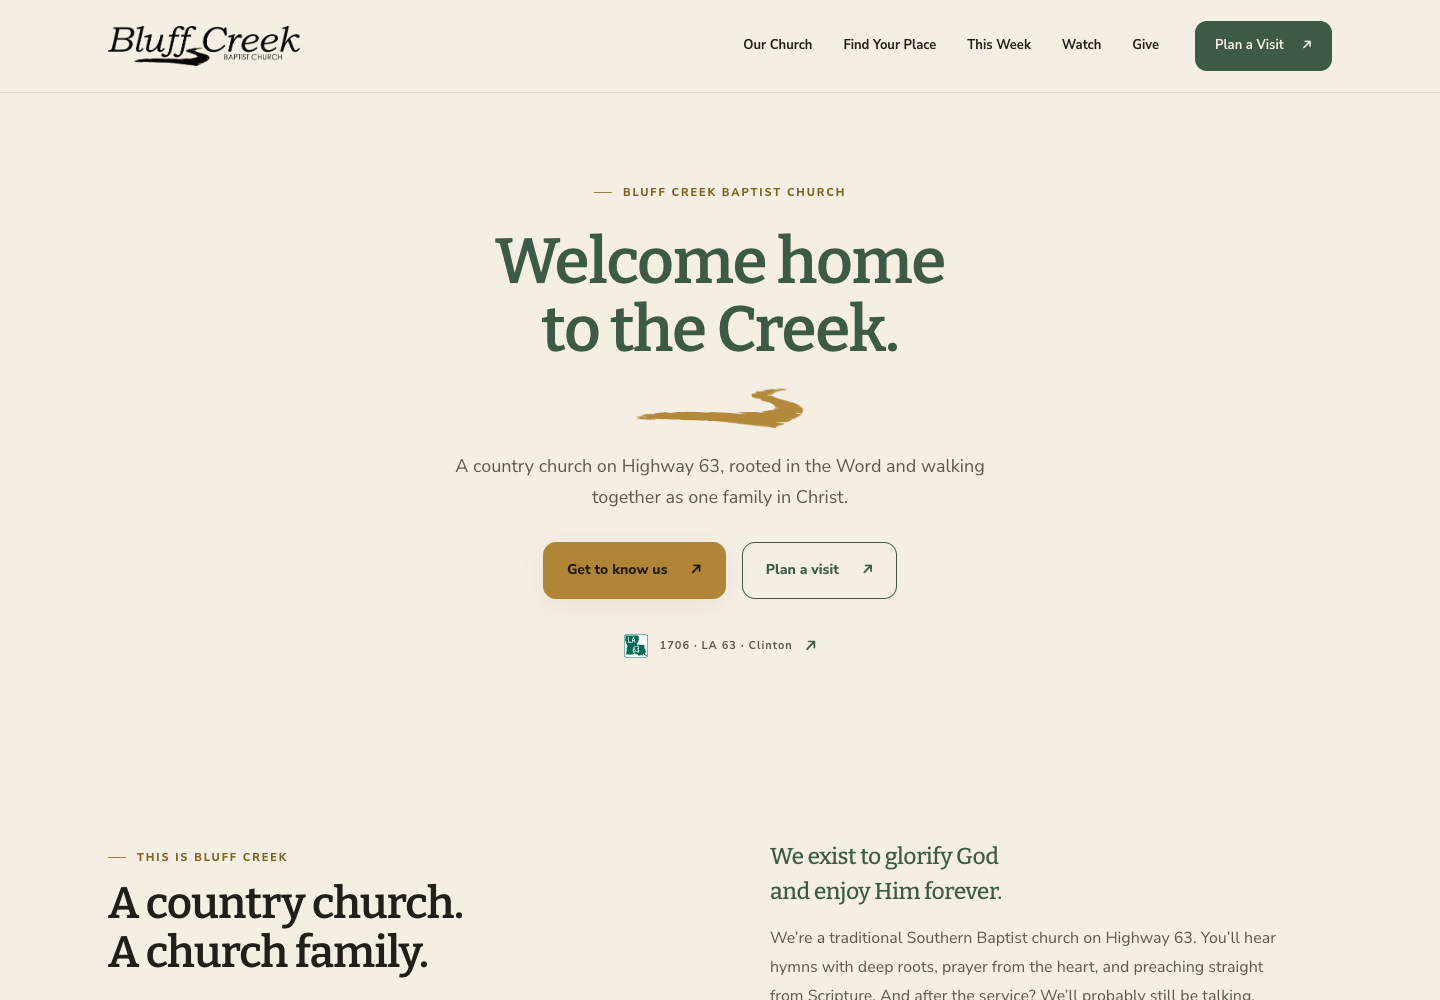
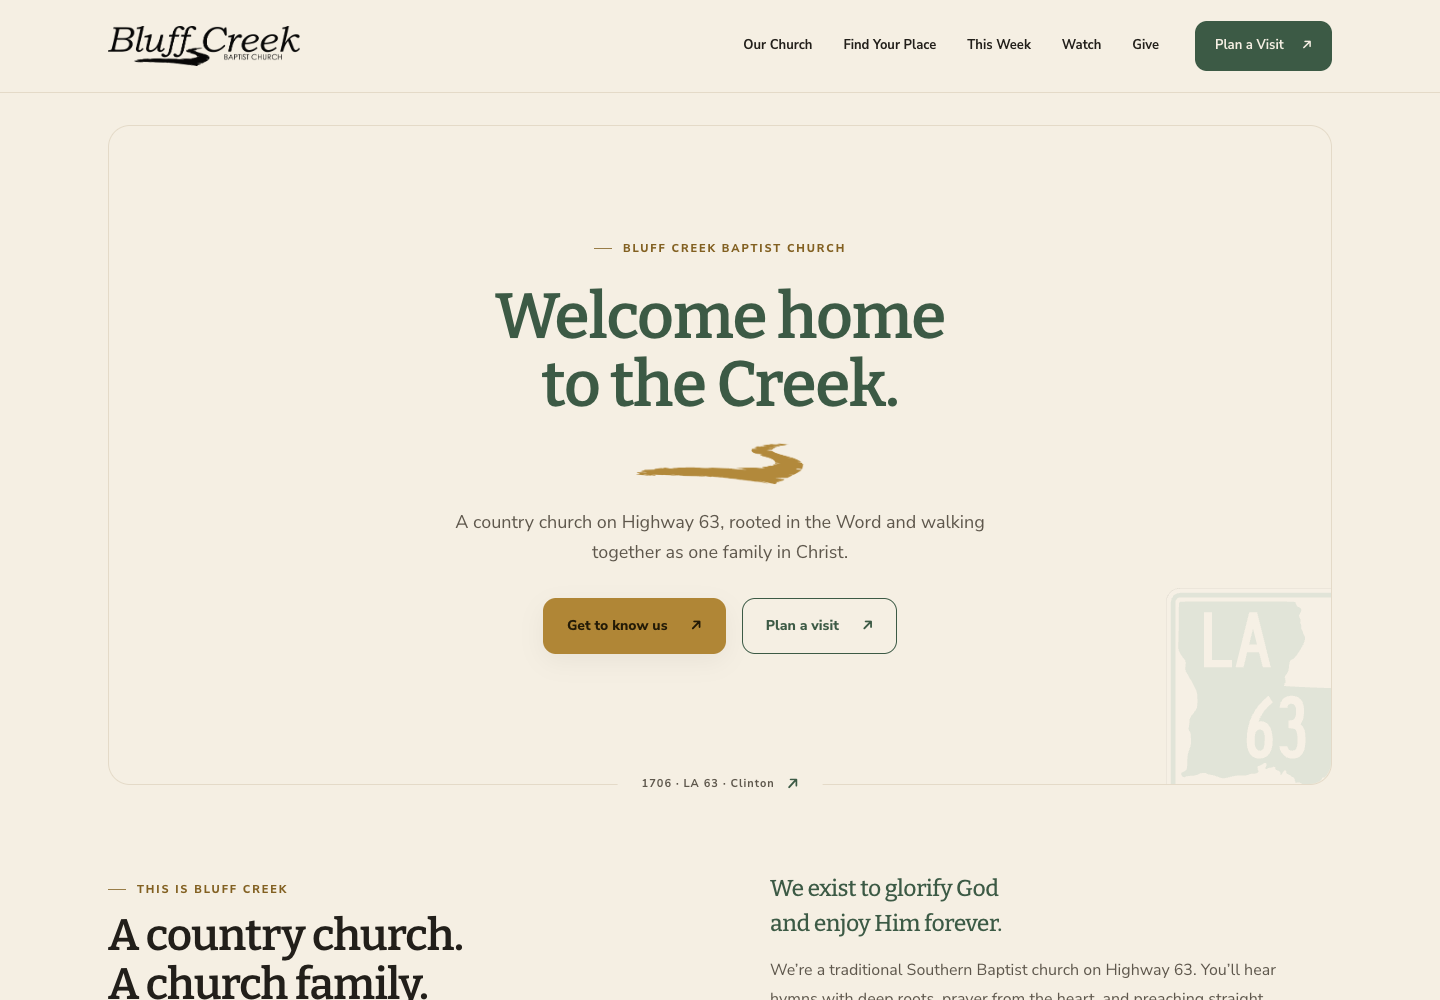
Integrate Highway 63 into the Homestead composition

diff --git a/css/polish.css b/css/polish.css
@@ -314,16 +314,17 @@ footer a:focus-visible,.top a:focus-visible{outline-color:#e5c76f}
 .editorial .burger span{font-family:"Nunito Sans",sans-serif;font-weight:800;font-size:13px}
 
 /* The opening introduces the church before practical visit details. */
-.homestead-welcome{position:relative;isolation:isolate;overflow:hidden;display:flex;flex-direction:column;align-items:center;justify-content:center;min-height:660px;padding:72px 28px 66px;text-align:center}
+.homestead-welcome{position:relative;isolation:isolate;display:flex;flex-direction:column;align-items:center;justify-content:center;min-height:660px;margin:32px 0 0;padding:64px 44px 80px;text-align:center;border:1px solid var(--line);border-radius:22px}
+/* The official marker belongs to the frame, clear of the welcome copy. */
+.welcome-place{position:absolute;inset:0;z-index:-1;overflow:hidden;border-radius:inherit;pointer-events:none}
+.welcome-place img{position:absolute;right:-55px;bottom:-24px;width:220px;height:auto;opacity:.08;filter:none}
 .homestead-welcome .eye{margin:0 0 26px}
 .homestead-welcome h1{color:var(--pine);font-family:"Bitter",Georgia,serif;font-size:clamp(44px,4.8vw,64px);font-weight:600;line-height:1.06;letter-spacing:-.02em;margin:0}
 .homestead-welcome .welcome-creek{width:170px;height:auto;margin:23px 0 22px}
 .homestead-welcome .welcome-intro{max-width:51ch;font-size:18px;line-height:1.7;color:var(--ink2);margin:0}
 .homestead-welcome .actions{justify-content:center;gap:16px;margin-top:30px}
-/* The unchanged state marker is a small, useful local signature. */
-.route-marker{display:block;flex:0 0 auto;height:auto;filter:none}
-.homestead-welcome .welcome-location{display:inline-flex;align-items:center;gap:12px;min-height:44px;font-size:11px;font-weight:700;letter-spacing:.09em;color:var(--ink2);margin:25px 0 0;text-decoration:none;border-radius:6px}
-.welcome-location .route-marker{width:24px}
+/* Place names interrupt the same fine rule throughout the page. */
+.homestead-welcome .welcome-location{position:absolute;left:50%;bottom:0;transform:translate(-50%,50%);display:inline-flex;align-items:center;gap:12px;min-height:44px;padding:0 24px;background:var(--ivory);font-size:11px;font-weight:700;letter-spacing:.09em;white-space:nowrap;color:var(--ink2);text-decoration:none;border-radius:6px}
 .welcome-location .location-arrow{color:var(--pine);font-size:15px;letter-spacing:0}
 .welcome-location:hover>span:not(.location-arrow){text-decoration:underline;text-underline-offset:4px}
 .editorial .homestead-welcome .btn{box-shadow:0 8px 24px rgba(40,33,20,.06)}
@@ -335,7 +336,8 @@ footer a:focus-visible,.top a:focus-visible{outline-color:#e5c76f}
 .visit-times{margin-top:56px}
 .visit-times h2{font-size:30px}
 @media(max-width:760px){
-  .homestead-welcome{min-height:610px;padding:48px 0}
+  .homestead-welcome{min-height:610px;margin:24px -12px 0;padding:48px 12px 68px}
+  .homestead-welcome .welcome-location{padding:0 14px;font-size:10px;gap:10px}
   .homestead-welcome .eye{font-size:10px;letter-spacing:.12em}
   .homestead-welcome h1{font-size:44px;line-height:1.07}
   .homestead-welcome .welcome-creek{width:140px;margin:22px 0}
@@ -344,6 +346,7 @@ footer a:focus-visible,.top a:focus-visible{outline-color:#e5c76f}
   .editorial .homestead-welcome .btn{padding:15px 18px;gap:16px;min-height:48px;font-size:13px}
   .editorial .first-visit .sunday-strip{padding:22px;margin-bottom:34px}
 }
+@media(max-width:1040px){.welcome-place{display:none}}
 @media(max-width:380px){.homestead-welcome h1{font-size:38px}.homestead-welcome .actions{flex-direction:column;align-items:stretch}.homestead-welcome .btn{justify-content:center}}
 .sunday-strip{display:grid;grid-template-columns:1.15fr .8fr .9fr 1.15fr;gap:26px;border-top:1px solid var(--line);border-bottom:1px solid var(--line);padding:25px 0 26px;align-items:center}
 .sunday-strip>div+div,.sunday-location{border-left:1px solid var(--line);padding-left:26px}
@@ -378,11 +381,12 @@ footer a:focus-visible,.top a:focus-visible{outline-color:#e5c76f}
 .tile-link{margin-top:auto;padding-top:18px;border-top:1px solid var(--line);align-self:stretch;display:flex;justify-content:space-between;gap:12px;font-size:12px;font-weight:800;color:var(--pine)}
 .week-grid{display:grid;grid-template-columns:.85fr 1.4fr;gap:90px;align-items:start}
 .week-intro>p:not(.eye){color:var(--ink2);font-size:16px;margin:19px 0 15px}
-.wednesday-note{display:flex;align-items:center;gap:13px;margin-top:34px}
-.wednesday-note .route-marker{width:20px}
-.wednesday-note>div{display:flex;flex-direction:column;gap:5px}
+.wednesday-note{margin-top:34px;max-width:350px}
+.place-rule{display:flex;align-items:center;gap:16px}
+.place-rule::before,.place-rule::after{content:"";height:1px;background:var(--line);flex:1}
+.place-rule::before{flex:0 0 28px}
 .wednesday-note b{font-family:"Bitter",serif;font-size:18px;letter-spacing:-.03em}
-.wednesday-note span{font-size:12px;color:var(--ink2)}
+.wednesday-note>span{display:block;margin:9px 0 0 44px;font-size:12px;color:var(--ink2)}
 .editorial .event-feed{margin:0}
 .editorial .event-row{grid-template-columns:78px 1fr;padding:26px 2px;gap:23px;transition:background .2s}
 .editorial .event-row:hover{padding-left:2px;background:none}
@@ -415,10 +419,11 @@ footer a:focus-visible,.top a:focus-visible{outline-color:#e5c76f}
 .wayfinding picture{display:block;position:relative;background:var(--pine)}
 .wayfinding picture::after{content:"";position:absolute;inset:0;background:rgba(60,90,69,.24);pointer-events:none}
 .wayfinding .wayfinding-photo{width:100%;height:auto;aspect-ratio:16/10;object-fit:cover;object-position:left center;filter:grayscale(.42) saturate(.68) brightness(.86);box-shadow:none;border-radius:0}
-.route-byline{display:inline-flex;align-items:center;gap:10px}
-.route-byline .route-marker{width:20px}
-.wayfinding figcaption{display:flex;justify-content:space-between;align-items:center;gap:16px;border-bottom:1px solid var(--line);padding:17px 0;font-size:10px;letter-spacing:.07em;text-transform:uppercase;font-weight:800;color:var(--ink2)}
-.wayfinding figcaption a{font-size:11px;text-transform:none;letter-spacing:0;text-underline-offset:4px}
+.wayfinding figcaption{display:flex;justify-content:space-between;align-items:center;gap:16px;position:relative;margin-top:24px;font-size:10px;letter-spacing:.07em;text-transform:uppercase;font-weight:800;color:var(--ink2)}
+.wayfinding figcaption::before{content:"";position:absolute;top:50%;left:0;right:0;height:1px;background:var(--line)}
+.wayfinding figcaption>span,.wayfinding figcaption>a{position:relative;background:#fffcf6}
+.wayfinding figcaption>span{padding-right:12px}
+.wayfinding figcaption a{padding-left:12px;font-size:11px;text-transform:none;letter-spacing:0;text-underline-offset:4px}
 .editorial .next-steps{padding:55px 0}
 .next-grid{display:grid;grid-template-columns:repeat(3,1fr);gap:36px}
 .next-grid>a{color:var(--ink);text-decoration:none;border-top:1px solid var(--line);padding:24px 27px 5px 0;position:relative}

diff --git a/index.html b/index.html
@@ -119,12 +119,13 @@
 
 
 <section class="homestead-welcome" aria-labelledby="welcome-title">
+  <div class="welcome-place" aria-hidden="true"><img src="assets/la63.svg" alt="" width="220" height="220"></div>
   <p class="eye">Bluff Creek Baptist Church</p>
   <h1 id="welcome-title">Welcome home<br>to the Creek.</h1>
   <img class="welcome-creek" src="assets/creek-gold.png" alt="" width="372" height="93">
   <p class="welcome-intro">A country church on Highway 63, rooted in the Word and walking together as one family in Christ.</p>
   <div class="actions"><a class="btn" href="about.html">Get to know us <span aria-hidden="true">↗</span></a><a class="btn ghost" href="visit.html">Plan a visit <span aria-hidden="true">↗</span></a></div>
-  <a class="welcome-location" href="contact.html" aria-label="1706 · LA 63 · Clinton — find your way here"><img class="route-marker" src="assets/la63.svg" alt="" width="24" height="24"><span>1706 · LA 63 · Clinton</span><span class="location-arrow" aria-hidden="true">↗</span></a>
+  <a class="welcome-location" href="contact.html" aria-label="1706 · LA 63 · Clinton — find your way here"><span>1706 · LA 63 · Clinton</span><span class="location-arrow" aria-hidden="true">↗</span></a>
 </section>
 
 <section class="band story-band"><div class="wrap story-grid">
@@ -142,7 +143,7 @@
 </div></section>
 
 <section class="band week-band"><div class="wrap week-grid">
-  <div class="week-intro"><p class="eye">Gather with us</p><h2>This week<br> at the Creek.</h2><p>Make a little room<br>for life together.</p><a class="textlink" href="times.html">All service &amp; meeting times <span aria-hidden="true">↗</span></a><div class="wednesday-note"><img class="route-marker" src="assets/la63.svg" alt="" width="20" height="20"><div><b>6 on the 63</b><span>Wednesday prayer &amp; youth · 6:00p</span></div></div></div>
+  <div class="week-intro"><p class="eye">Gather with us</p><h2>This week<br> at the Creek.</h2><p>Make a little room<br> for life together.</p><a class="textlink" href="times.html">All service &amp; meeting times <span aria-hidden="true">↗</span></a><div class="wednesday-note"><div class="place-rule"><b>6 on the 63</b></div><span>Wednesday prayer &amp; youth · 6:00p</span></div></div>
   <div class="event-feed" data-events-feed="3"><article class="event-row"><time datetime="2026-09-06"><span>Sun</span>6</time><div><h3>Sunday School</h3><p>9:00a · Fellowship Building</p></div></article><article class="event-row"><time datetime="2026-09-06"><span>Sun</span>6</time><div><h3>Sunday Worship</h3><p>10:15a · Sanctuary</p></div></article><article class="event-row"><time datetime="2026-09-06"><span>Sun</span>6</time><div><h3>Youth discipleship</h3><p>5:30p · Fellowship Building</p></div></article><noscript><style>[data-events-feed] > .event-row,[data-events-feed] > .events-empty{display:none}</style><p class="events-noscript">Sunday School · 9:00a<br>Sunday Worship · 10:15a<br><a href="times.html">View all weekly gathering times →</a></p></noscript></div>
 </div></section>
 
@@ -170,7 +171,7 @@
 
 <section class="band home-letter"><div class="wrap letter-grid">
   <div><p class="eye">A note from our pastor</p><h2>Come as you are.<br>We mean it.</h2><div class="prose"><p>Suit or Wranglers, overalls off the tractor or camo off the stand—you’ll fit right in. Bring your kids into the service or use the nursery; either way, you’re welcome here.</p><p>I’d love to sit across a table from you with a cup of coffee and hear your story.</p><p class="sig">— Cole Permenter, Pastor</p></div><a class="textlink" href="contact.html">Say hello <span aria-hidden="true">↗</span></a></div>
-  <figure class="wayfinding"><picture><source type="image/webp" srcset="assets/optimized/sign-320.webp 320w, assets/optimized/sign-640.webp 640w, assets/optimized/sign-960.webp 960w, assets/optimized/sign-1440.webp 1440w, assets/optimized/sign-1920.webp 1920w" sizes="(max-width: 880px) 100vw, 500px"><img class="wayfinding-photo" src="assets/optimized/sign-fallback.jpg" width="2000" height="1125" alt="The brick church sign and sanctuary at Bluff Creek" loading="lazy" decoding="async"></picture><figcaption><span class="route-byline"><img class="route-marker" src="assets/la63.svg" alt="" width="20" height="20">1706 · LA 63 · Clinton</span><a href="contact.html">Find your way here <span aria-hidden="true">↗</span></a></figcaption></figure>
+  <figure class="wayfinding"><picture><source type="image/webp" srcset="assets/optimized/sign-320.webp 320w, assets/optimized/sign-640.webp 640w, assets/optimized/sign-960.webp 960w, assets/optimized/sign-1440.webp 1440w, assets/optimized/sign-1920.webp 1920w" sizes="(max-width: 880px) 100vw, 500px"><img class="wayfinding-photo" src="assets/optimized/sign-fallback.jpg" width="2000" height="1125" alt="The brick church sign and sanctuary at Bluff Creek" loading="lazy" decoding="async"></picture><figcaption><span>1706 · LA 63 · Clinton</span><a href="contact.html">Find your way here <span aria-hidden="true">↗</span></a></figcaption></figure>
 </div></section>
 
 <section class="band next-steps"><div class="wrap">

diff --git a/build.py b/build.py
@@ -175,12 +175,13 @@ PAGES = {}
 # ---------------- HOME ----------------
 PAGES["index"] = ("Welcome home to the Creek", "A country church in Clinton, Louisiana. Rooted in the Word, growing together, with room for your family.", f"""
 <section class="homestead-welcome" aria-labelledby="welcome-title">
+  <div class="welcome-place" aria-hidden="true"><img src="assets/la63.svg" alt="" width="220" height="220"></div>
   <p class="eye">Bluff Creek Baptist Church</p>
   <h1 id="welcome-title">Welcome home<br>to the Creek.</h1>
   <img class="welcome-creek" src="assets/creek-gold.png" alt="" width="372" height="93">
   <p class="welcome-intro">A country church on Highway 63, rooted in the Word and walking together as one family in Christ.</p>
   <div class="actions"><a class="btn" href="about.html">Get to know us <span aria-hidden="true">↗</span></a><a class="btn ghost" href="visit.html">Plan a visit <span aria-hidden="true">↗</span></a></div>
-  <a class="welcome-location" href="contact.html" aria-label="1706 · LA 63 · Clinton — find your way here"><img class="route-marker" src="assets/la63.svg" alt="" width="24" height="24"><span>1706 · LA 63 · Clinton</span><span class="location-arrow" aria-hidden="true">↗</span></a>
+  <a class="welcome-location" href="contact.html" aria-label="1706 · LA 63 · Clinton — find your way here"><span>1706 · LA 63 · Clinton</span><span class="location-arrow" aria-hidden="true">↗</span></a>
 </section>
 
 <section class="band story-band"><div class="wrap story-grid">
@@ -198,7 +199,7 @@ PAGES["index"] = ("Welcome home to the Creek", "A country church in Clinton, Lou
 </div></section>
 
 <section class="band week-band"><div class="wrap week-grid">
-  <div class="week-intro"><p class="eye">Gather with us</p><h2>This week<br> at the Creek.</h2><p>Make a little room<br>for life together.</p><a class="textlink" href="times.html">All service &amp; meeting times <span aria-hidden="true">↗</span></a><div class="wednesday-note"><img class="route-marker" src="assets/la63.svg" alt="" width="20" height="20"><div><b>6 on the 63</b><span>Wednesday prayer &amp; youth · 6:00p</span></div></div></div>
+  <div class="week-intro"><p class="eye">Gather with us</p><h2>This week<br> at the Creek.</h2><p>Make a little room<br> for life together.</p><a class="textlink" href="times.html">All service &amp; meeting times <span aria-hidden="true">↗</span></a><div class="wednesday-note"><div class="place-rule"><b>6 on the 63</b></div><span>Wednesday prayer &amp; youth · 6:00p</span></div></div>
   <div class="event-feed" data-events-feed="3">{event_rows()}</div>
 </div></section>
 
@@ -226,7 +227,7 @@ PAGES["index"] = ("Welcome home to the Creek", "A country church in Clinton, Lou
 
 <section class="band home-letter"><div class="wrap letter-grid">
   <div><p class="eye">A note from our pastor</p><h2>Come as you are.<br>We mean it.</h2><div class="prose"><p>Suit or Wranglers, overalls off the tractor or camo off the stand—you’ll fit right in. Bring your kids into the service or use the nursery; either way, you’re welcome here.</p><p>I’d love to sit across a table from you with a cup of coffee and hear your story.</p><p class="sig">— Cole Permenter, Pastor</p></div><a class="textlink" href="contact.html">Say hello <span aria-hidden="true">↗</span></a></div>
-  <figure class="wayfinding">{responsive_image("sign.jpg", "The brick church sign and sanctuary at Bluff Creek", "(max-width: 880px) 100vw, 500px", "wayfinding-photo")}<figcaption><span class="route-byline"><img class="route-marker" src="assets/la63.svg" alt="" width="20" height="20">1706 · LA 63 · Clinton</span><a href="contact.html">Find your way here <span aria-hidden="true">↗</span></a></figcaption></figure>
+  <figure class="wayfinding">{responsive_image("sign.jpg", "The brick church sign and sanctuary at Bluff Creek", "(max-width: 880px) 100vw, 500px", "wayfinding-photo")}<figcaption><span>1706 · LA 63 · Clinton</span><a href="contact.html">Find your way here <span aria-hidden="true">↗</span></a></figcaption></figure>
 </div></section>
 
 <section class="band next-steps"><div class="wrap">

diff --git a/docs/verification.md b/docs/verification.md
@@ -1,10 +1,10 @@
 # Website verification
 
-## Current LA 63 refinement
+## Current integrated Highway 63 treatment
 
-The original highway marker now appears in the welcome’s location link (24px), the Wednesday “6 on the 63” note (20px), and the church-photo address caption (20px). The unchanged SVG keeps its natural square aspect ratio and has no CSS color filter. The faint welcome background flourish was removed.
+The centered welcome sits in a single rounded frame. Its address link interrupts the bottom border, while the original highway SVG appears at 8% opacity in the empty lower-right corner. The marker remains square, unfiltered, and clipped within the frame; it hides at 1040px and below where the side space is needed for content. The Wednesday note and church-photo caption use matching rules and address typography without added icons.
 
-Targeted browser checks at 1440, 520, 375, and 320 pixels found no horizontal overflow or broken loaded images, no numeric service times in the opening viewport, and a clean address caption at the narrowest width. The welcome location link reaches Contact. Desktop, phone, Wednesday, and address-caption screenshots were reviewed; the homepage PR previews were refreshed. Build and diff checks pass.
+Targeted browser checks at 1440, 1100, 1040, 768, 520, 375, and 320 pixels found no horizontal overflow, broken loaded images, or numeric service times in the opening viewport. The marker stays clear of text and buttons. The address link reaches Contact, and its keyboard focus outline is visible on desktop and narrow phones. The Wednesday rule and photo caption fit at 320px. Desktop, phone, tablet, and detail screenshots were reviewed, and homepage PR previews were refreshed. Static build and diff checks pass; the original marker asset is unchanged.
 
 ## Homestead restoration baseline
 

diff --git a/docs/homestead-editorial.md b/docs/homestead-editorial.md
@@ -53,7 +53,9 @@ Use the actual creek brushstroke lifted from the logo. The supplied gold asset i
 
 Use the official Louisiana 63 marker in its original green, small and near an address. Typical sizes are 20–24px by an address, 28–34px in the app header, or 0.75–1.25 inches in print. It is never another logo. The consistent byline is **1706 · LA 63 · Clinton**. A Bitter “63” watermark may be used at 5–8% opacity, below about 9%, away from body text; allow only one quiet highway reference per surface.
 
-On the homepage, the marker appears at 24px in the welcome’s location link, at 20px beside “6 on the 63,” and at 20px in the church-photo address caption. Keep the welcome background clear so the small location detail remains distinctive. Use the unchanged SVG without filters, borders, or a badge container; do not add a second marker or watermark to the same section.
+On the homepage, Highway 63 is part of the composition. A single fine border with 22px corners holds the welcome; the address interrupts its bottom edge as a directions link. The unchanged official SVG appears once as a 220px background texture at 8% opacity, cropped off the lower-right corner, clear of the text and buttons. Hide that texture at narrower widths where there is no empty side space. The gold creek remains the main signature.
+
+Carry the same relationship through the page: “6 on the 63” interrupts a short rule in the weekly introduction, and the church-photo address and directions sit within a ruled caption. Repeat alignment, spacing, and address typography rather than adding miniature signs beside each item. Do not tint, filter, redraw, or outline the official marker, or turn the layout into a road map.
 
 ## Surfaces and buttons
 
